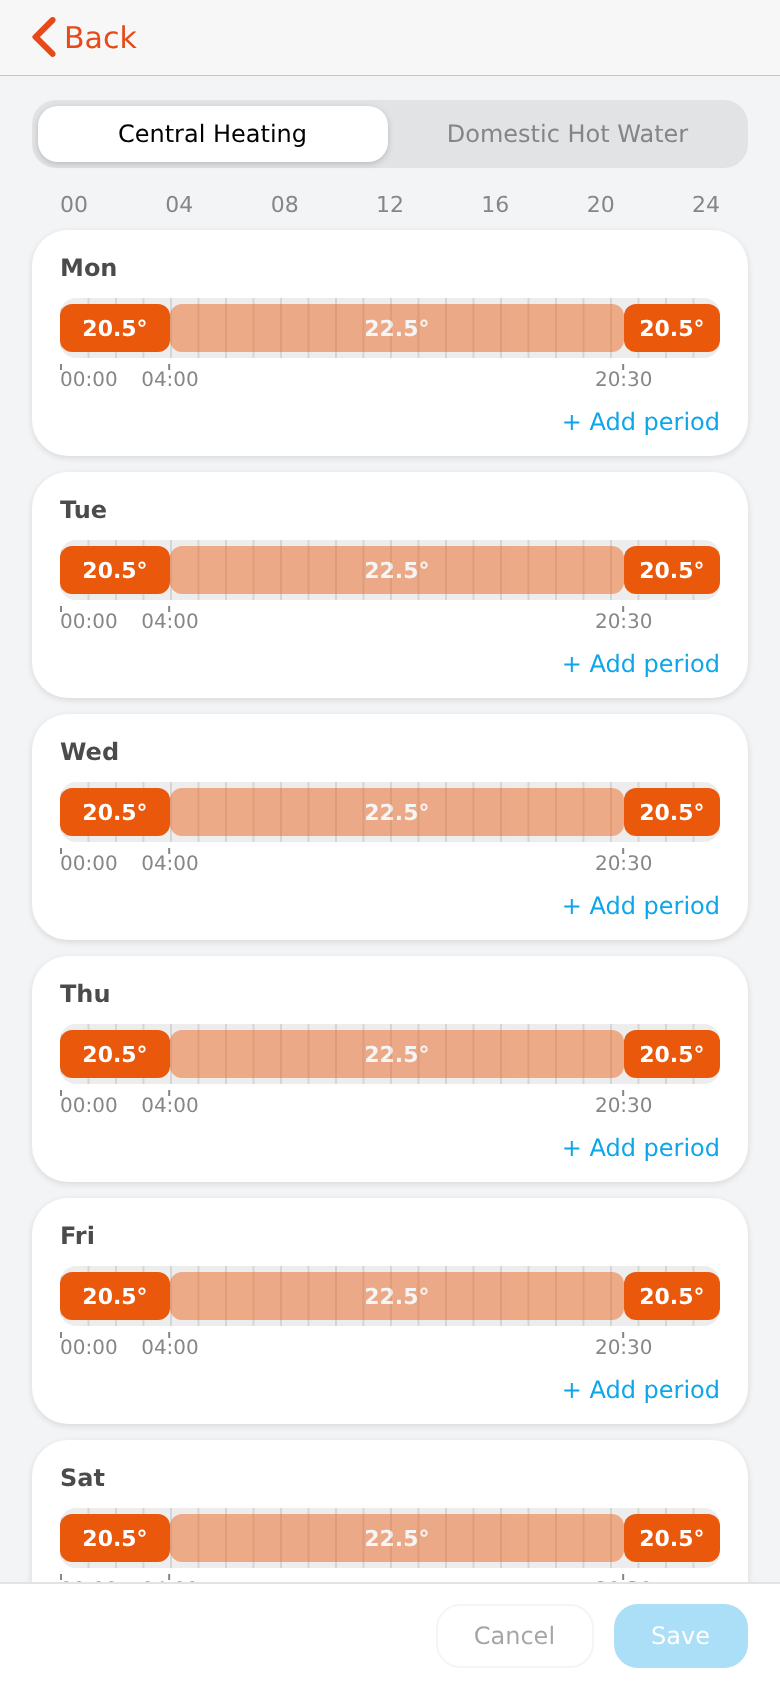
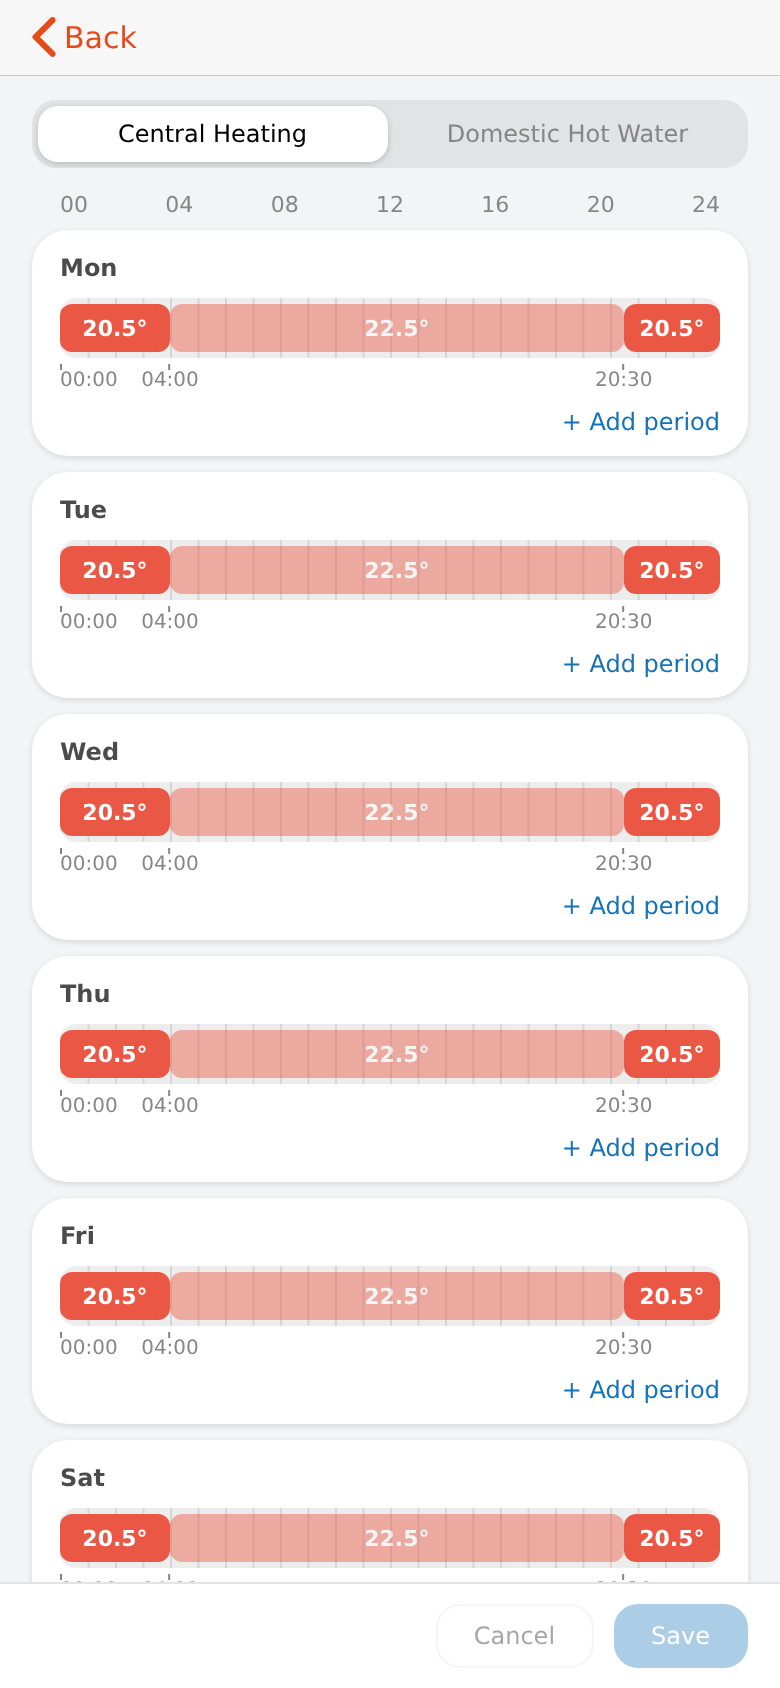
atag_regulation_card 2.3.1 / atag_schedule_card 1.2.1: Save/Cancel enable on change, ATAG portal colours

diff --git a/widgets/atag/atag_regulation_card/regulation.html b/widgets/atag/atag_regulation_card/regulation.html
@@ -12,7 +12,7 @@
     --fg-dim: rgba(128,128,128,0.95);
     --line: rgba(128,128,128,0.22);
     --track: rgba(128,128,128,0.14);
-    --cool: #0ea5e9;
+    --cool: #1472b9;
     --amber: #d97706;
     --font: -apple-system, "Helvetica Neue", Helvetica, Arial, sans-serif;
   }
@@ -213,6 +213,7 @@
   var edited = {};   // key -> display value as currently edited (only present if changed)
 
   function el(id) { return document.getElementById(id); }
+  function setOff(id, off) { var b = el(id); b.disabled = off; if (off) b.setAttribute('disabled', ''); else b.removeAttribute('disabled'); }
 
   function fetchItem(name) {
     if (!name) return Promise.resolve(null);
@@ -418,8 +419,8 @@
 
   function updateBar() {
     var dirty = anyDirty();
-    el('btn-save').disabled = !dirty;
-    el('btn-revert').disabled = !dirty;
+    setOff('btn-save', !dirty);
+    setOff('btn-revert', !dirty);
     if (!dirty) { el('save-status').textContent = ''; return; }
     var n = Object.keys(edited).filter(function (k) { return edited[k] !== loaded[k]; }).length;
     el('save-status').textContent = n + ' unsaved change' + (n === 1 ? '' : 's');
@@ -485,8 +486,8 @@
   el('btn-save').addEventListener('click', function () {
     var changedKeys = Object.keys(edited).filter(function (k) { return edited[k] !== loaded[k]; });
     if (!changedKeys.length) return;
-    el('btn-save').disabled = true;
-    el('btn-revert').disabled = true;
+    setOff('btn-save', true);
+    setOff('btn-revert', true);
 
     var attempted = {};
     changedKeys.forEach(function (k) { attempted[k] = edited[k]; });

diff --git a/widgets/atag/atag_schedule_card/schedule.html b/widgets/atag/atag_schedule_card/schedule.html
@@ -12,8 +12,8 @@
     --fg-dim: rgba(128,128,128,0.95);
     --line: rgba(128,128,128,0.22);
     --track: rgba(128,128,128,0.14);
-    --hot: #ea580c;
-    --cool: #0ea5e9;
+    --hot: #ea5845;
+    --cool: #1472b9;
     --danger: #dc2626;
     --font: -apple-system, "Helvetica Neue", Helvetica, Arial, sans-serif;
   }
@@ -241,6 +241,7 @@
   var editing = null; // {day, index, isNew}
 
   function el(id) { return document.getElementById(id); }
+  function setOff(id, off) { var b = el(id); b.disabled = off; if (off) b.setAttribute('disabled', ''); else b.removeAttribute('disabled'); }
 
   function itemForTab(tab) { return tab === 'ch' ? CH_ITEM : DHW_ITEM; }
 
@@ -279,8 +280,8 @@
   }
 
   function setButtons() {
-    el('btn-save').disabled = !dirty;
-    el('btn-revert').disabled = !dirty;
+    setOff('btn-save', !dirty);
+    setOff('btn-revert', !dirty);
     el('save-status').textContent = dirty ? 'Unsaved changes' : '';
   }
 
@@ -523,8 +524,8 @@
   el('btn-save').addEventListener('click', function () {
     var setAction = activeTab === 'ch' ? 'setChSchedulePeriod' : 'setDhwSchedulePeriod';
     var clearAction = activeTab === 'ch' ? 'clearChSchedulePeriod' : 'clearDhwSchedulePeriod';
-    el('btn-save').disabled = true;
-    el('btn-revert').disabled = true;
+    setOff('btn-save', true);
+    setOff('btn-revert', true);
 
     var writes = [];
     DAYS.forEach(function (day) {

diff --git a/widgets/atag/atag_schedule_card/README.md b/widgets/atag/atag_schedule_card/README.md
@@ -95,6 +95,11 @@ two schedule-JSON item props.
 
 ## Changelog
 
+### Version 1.2.1
+
+- Fixed: Cancel / Save never enabled after an edit (same `disabled` attribute bug as the regulation dialog)
+- Pill colours follow the ATAG portal: warm `#ea5845` for periods above the threshold, blue `#1472b9` for the rest and as the accent colour
+
 ### Version 1.2.0
 
 - Restyled to the shared design system: one 18 px card per weekday, segmented Central Heating / Hot Water switch, theme colours and font read from the Main UI (light and dark follow the app), orange / blue pills; Revert is now **Cancel**

diff --git a/widgets/atag/atag_regulation_card/README.md b/widgets/atag/atag_regulation_card/README.md
@@ -89,6 +89,11 @@ sent.
 
 ## Changelog
 
+### Version 2.3.1
+
+- Fixed: Cancel / Save never enabled after an edit (the bar buttons are `div`s, so setting `disabled` as a property left the `disabled` attribute and its style in place); they now enable on the first change
+- Accent colour is ATAG's portal blue `#1472b9`
+
 ### Version 2.3.0
 
 - Restyled to the shared design system: section cards (18 px radius), the page, card and text colours and the font are read from the Main UI the frame sits in, so light and dark follow the app; Revert is now **Cancel**
